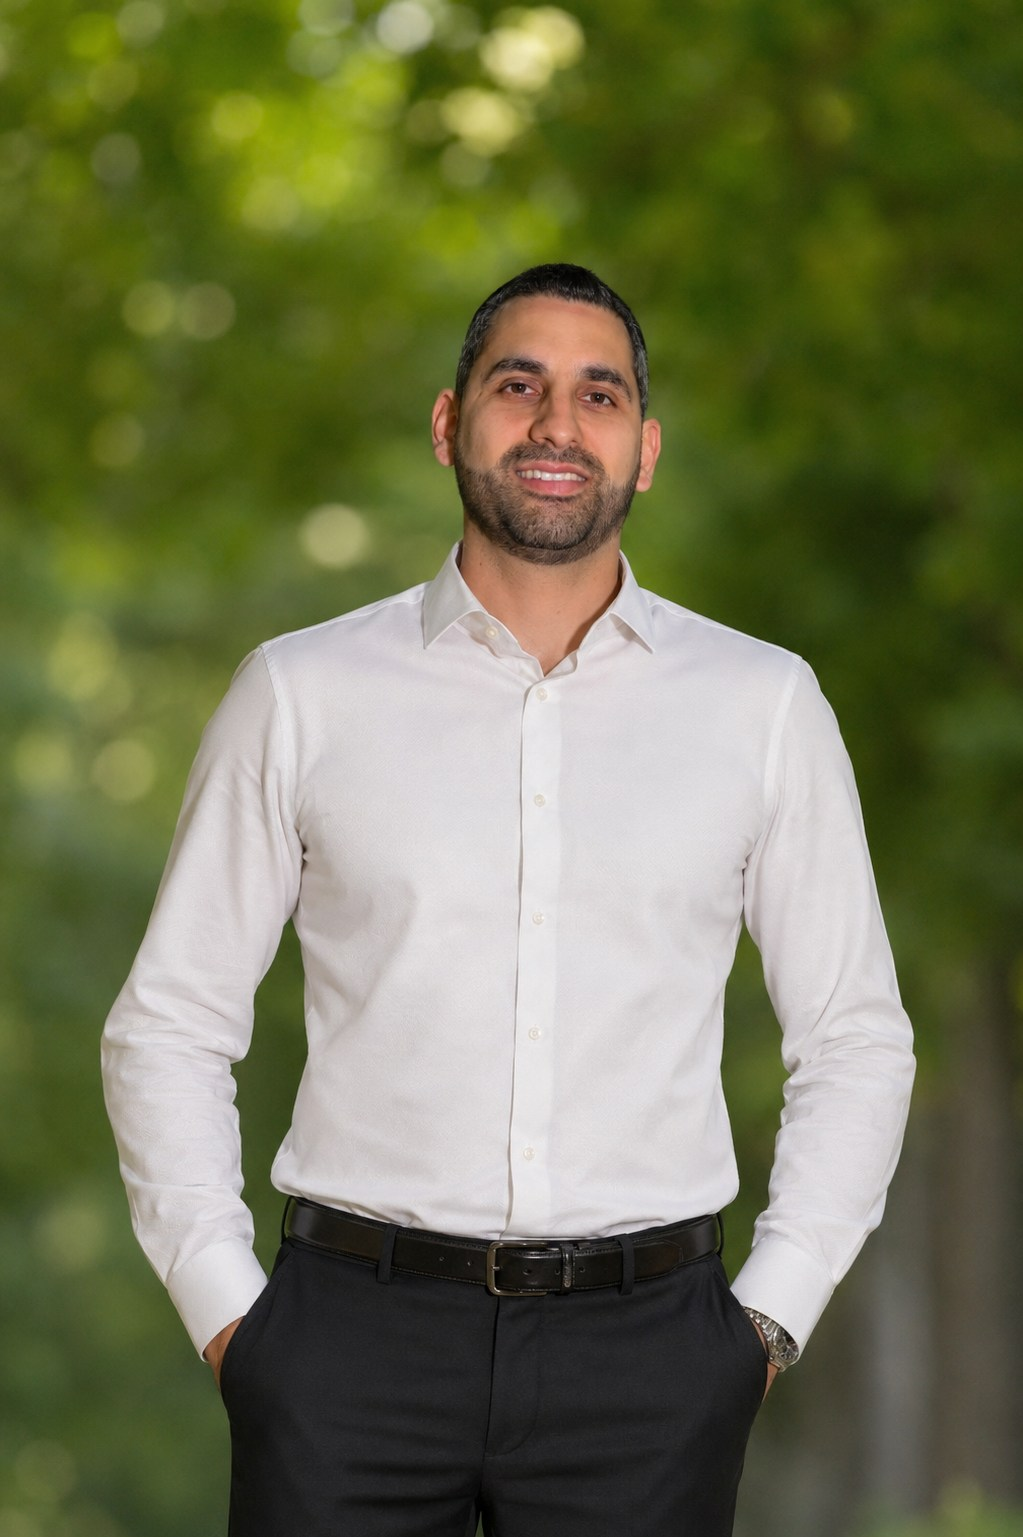
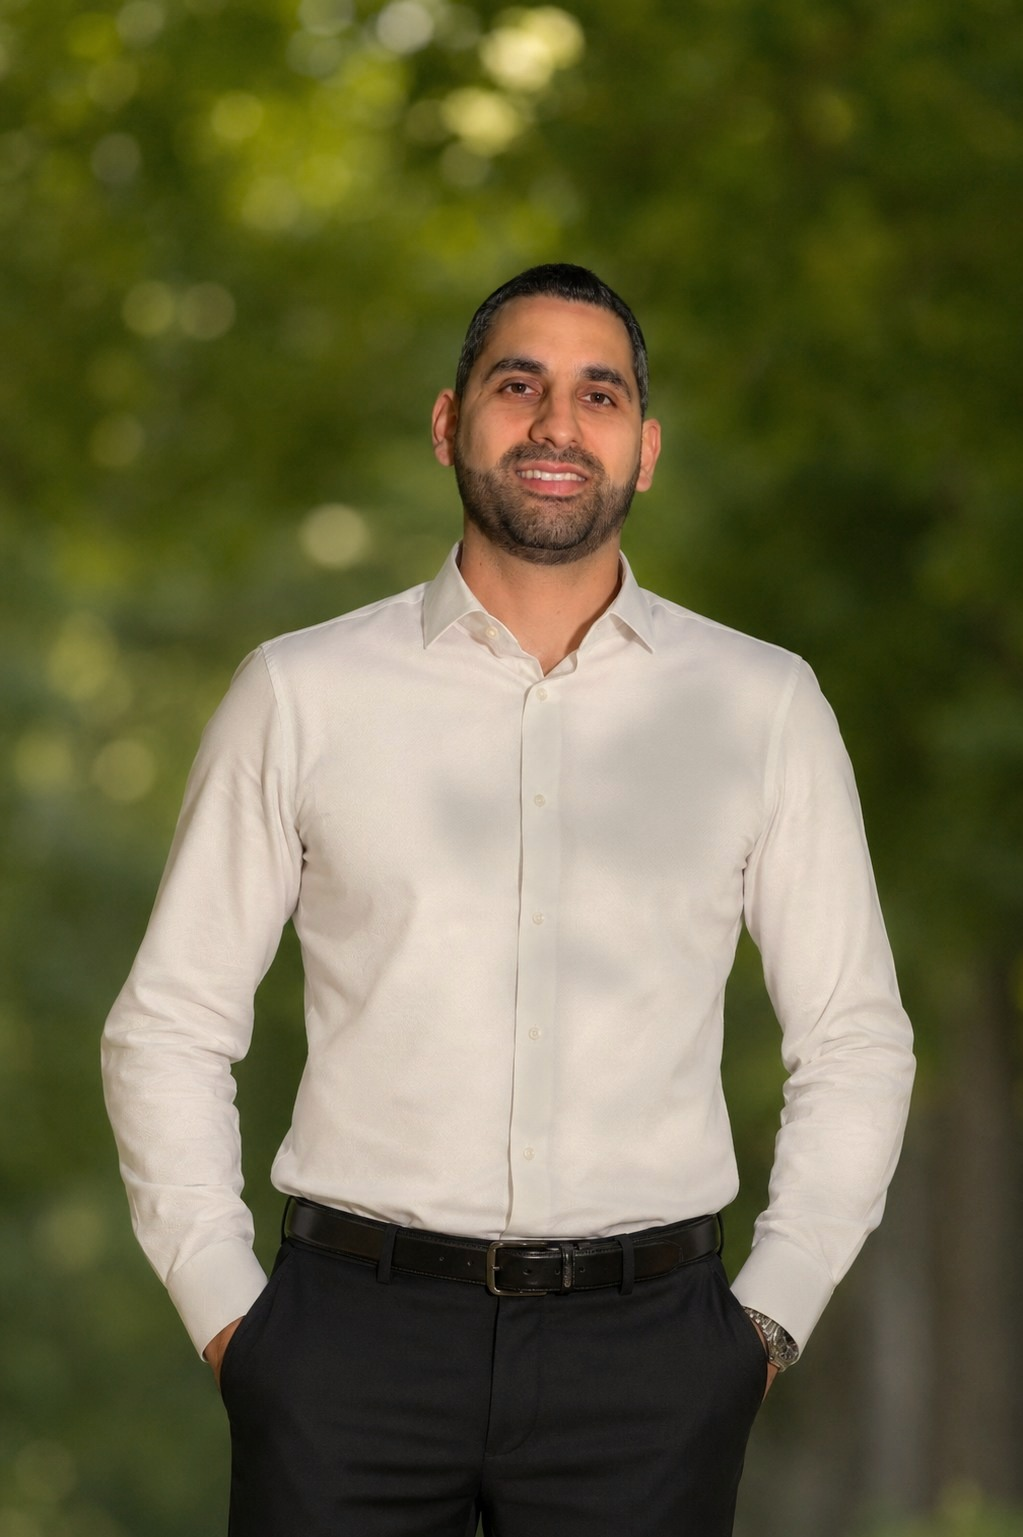
Add 'בית' to nav+drawer+footer all pages; process photo colors

diff --git a/about/index.html b/about/index.html
@@ -69,7 +69,6 @@
   display: block;
   background: var(--paper-2);
   color: transparent;
-  filter: saturate(0.78) sepia(0.12) brightness(0.92);
 }
 .about-photo-caption {
   margin-top: .85rem;
@@ -177,6 +176,7 @@
     <img src="/GoFlow_full_logo_black_transparent_1200px.png" alt="GoFlow">
   </a>
   <ul class="site-nav-links">
+    <li><a href="/">בית</a></li>
     <li><a href="/#services">שירותים</a></li>
     <li><a href="/#process">תהליך</a></li>
     <li><a href="/#quiz">אבחון</a></li>
@@ -189,6 +189,7 @@
 </nav>
 
 <div class="drawer" id="drawer">
+  <a href="/" onclick="closeDrawer()">בית</a>
   <a href="/#services" onclick="closeDrawer()">שירותים</a>
   <a href="/#process" onclick="closeDrawer()">תהליך עבודה</a>
   <a href="/#quiz" onclick="closeDrawer()">אבחון חינם</a>
@@ -316,7 +317,7 @@
 <footer class="site-footer">
   <a href="/"><img src="/GoFlow_full_logo_black_transparent_1200px.png" alt="GoFlow"></a>
   <div class="foot-links">
-    <a href="/">דף הבית</a>
+    <a href="/">בית</a>
     <a href="/about/">אודות</a>
     <a href="/blog/">בלוג</a>
     <a href="/#contact">צור קשר</a>

diff --git a/blog/index.html b/blog/index.html
@@ -42,6 +42,7 @@
     <img src="/GoFlow_full_logo_black_transparent_1200px.png" alt="GoFlow">
   </a>
   <ul class="site-nav-links">
+    <li><a href="/">בית</a></li>
     <li><a href="/#services">שירותים</a></li>
     <li><a href="/#process">תהליך</a></li>
     <li><a href="/#quiz">אבחון</a></li>
@@ -53,6 +54,7 @@
   <button class="hbg" id="hbg" onclick="toggleDrawer()"><span></span><span></span><span></span></button>
 </nav>
 <div class="drawer" id="drawer">
+  <a href="/" onclick="closeDrawer()">בית</a>
   <a href="/#services" onclick="closeDrawer()">שירותים</a>
   <a href="/#process" onclick="closeDrawer()">תהליך עבודה</a>
   <a href="/#quiz" onclick="closeDrawer()">אבחון חינם</a>
@@ -85,7 +87,6 @@ function closeDrawer(){
 </div>
 
 <div class="filter-bar">
-  <a href="/" style="display:inline-flex;align-items:center;gap:.35rem;padding:.4rem 1rem;border:1px solid var(--border);border-radius:2rem;font-family:var(--fb);font-size:.78rem;letter-spacing:.07em;color:var(--muted);text-decoration:none;transition:all .2s;white-space:nowrap" onmouseover="this.style.borderColor='var(--gold)';this.style.color='var(--gold)'" onmouseout="this.style.borderColor='var(--border)';this.style.color='var(--muted)'">← בית</a>
   <button class="filter-btn active" onclick="filter('all')">הכל</button>
   <button class="filter-btn" onclick="filter('ייעוץ תהליכי')">ייעוץ תהליכי</button>
   <button class="filter-btn" onclick="filter('CRM')">CRM</button>
@@ -189,7 +190,7 @@ function filter(cat){
 <footer class="site-footer">
   <a href="/"><img src="/GoFlow_full_logo_black_transparent_1200px.png" alt="GoFlow"></a>
   <div class="foot-links">
-    <a href="/">דף הבית</a>
+    <a href="/">בית</a>
     <a href="/about/">אודות</a>
     <a href="/blog/">בלוג</a>
     <a href="/#contact">צור קשר</a>

diff --git a/blog/5-signs-you-need-process-consulting/index.html b/blog/5-signs-you-need-process-consulting/index.html
@@ -36,6 +36,7 @@
     <img src="/GoFlow_full_logo_black_transparent_1200px.png" alt="GoFlow">
   </a>
   <ul class="site-nav-links">
+    <li><a href="/">בית</a></li>
     <li><a href="/#services">שירותים</a></li>
     <li><a href="/#process">תהליך</a></li>
     <li><a href="/#quiz">אבחון</a></li>
@@ -47,6 +48,7 @@
   <button class="hbg" id="hbg" onclick="toggleDrawer()"><span></span><span></span><span></span></button>
 </nav>
 <div class="drawer" id="drawer">
+  <a href="/" onclick="closeDrawer()">בית</a>
   <a href="/#services" onclick="closeDrawer()">שירותים</a>
   <a href="/#process" onclick="closeDrawer()">תהליך עבודה</a>
   <a href="/#quiz" onclick="closeDrawer()">אבחון חינם</a>
@@ -73,7 +75,7 @@
 </div></article></main><footer class="site-footer">
   <a href="/"><img src="/GoFlow_full_logo_black_transparent_1200px.png" alt="GoFlow"></a>
   <div class="foot-links">
-    <a href="/">דף הבית</a>
+    <a href="/">בית</a>
     <a href="/about/">אודות</a>
     <a href="/blog/">בלוג</a>
     <a href="/#contact">צור קשר</a>

diff --git a/blog/automation-for-business/index.html b/blog/automation-for-business/index.html
@@ -36,6 +36,7 @@
     <img src="/GoFlow_full_logo_black_transparent_1200px.png" alt="GoFlow">
   </a>
   <ul class="site-nav-links">
+    <li><a href="/">בית</a></li>
     <li><a href="/#services">שירותים</a></li>
     <li><a href="/#process">תהליך</a></li>
     <li><a href="/#quiz">אבחון</a></li>
@@ -47,6 +48,7 @@
   <button class="hbg" id="hbg" onclick="toggleDrawer()"><span></span><span></span><span></span></button>
 </nav>
 <div class="drawer" id="drawer">
+  <a href="/" onclick="closeDrawer()">בית</a>
   <a href="/#services" onclick="closeDrawer()">שירותים</a>
   <a href="/#process" onclick="closeDrawer()">תהליך עבודה</a>
   <a href="/#quiz" onclick="closeDrawer()">אבחון חינם</a>
@@ -74,7 +76,7 @@
 </div></article></main><footer class="site-footer">
   <a href="/"><img src="/GoFlow_full_logo_black_transparent_1200px.png" alt="GoFlow"></a>
   <div class="foot-links">
-    <a href="/">דף הבית</a>
+    <a href="/">בית</a>
     <a href="/about/">אודות</a>
     <a href="/blog/">בלוג</a>
     <a href="/#contact">צור קשר</a>

diff --git a/blog/ceo-bottleneck/index.html b/blog/ceo-bottleneck/index.html
@@ -36,6 +36,7 @@
     <img src="/GoFlow_full_logo_black_transparent_1200px.png" alt="GoFlow">
   </a>
   <ul class="site-nav-links">
+    <li><a href="/">בית</a></li>
     <li><a href="/#services">שירותים</a></li>
     <li><a href="/#process">תהליך</a></li>
     <li><a href="/#quiz">אבחון</a></li>
@@ -47,6 +48,7 @@
   <button class="hbg" id="hbg" onclick="toggleDrawer()"><span></span><span></span><span></span></button>
 </nav>
 <div class="drawer" id="drawer">
+  <a href="/" onclick="closeDrawer()">בית</a>
   <a href="/#services" onclick="closeDrawer()">שירותים</a>
   <a href="/#process" onclick="closeDrawer()">תהליך עבודה</a>
   <a href="/#quiz" onclick="closeDrawer()">אבחון חינם</a>
@@ -69,7 +71,7 @@
 </div></article></main><footer class="site-footer">
   <a href="/"><img src="/GoFlow_full_logo_black_transparent_1200px.png" alt="GoFlow"></a>
   <div class="foot-links">
-    <a href="/">דף הבית</a>
+    <a href="/">בית</a>
     <a href="/about/">אודות</a>
     <a href="/blog/">בלוג</a>
     <a href="/#contact">צור קשר</a>

diff --git a/blog/crm-for-business-2026/index.html b/blog/crm-for-business-2026/index.html
@@ -36,6 +36,7 @@
     <img src="/GoFlow_full_logo_black_transparent_1200px.png" alt="GoFlow">
   </a>
   <ul class="site-nav-links">
+    <li><a href="/">בית</a></li>
     <li><a href="/#services">שירותים</a></li>
     <li><a href="/#process">תהליך</a></li>
     <li><a href="/#quiz">אבחון</a></li>
@@ -47,6 +48,7 @@
   <button class="hbg" id="hbg" onclick="toggleDrawer()"><span></span><span></span><span></span></button>
 </nav>
 <div class="drawer" id="drawer">
+  <a href="/" onclick="closeDrawer()">בית</a>
   <a href="/#services" onclick="closeDrawer()">שירותים</a>
   <a href="/#process" onclick="closeDrawer()">תהליך עבודה</a>
   <a href="/#quiz" onclick="closeDrawer()">אבחון חינם</a>
@@ -80,7 +82,7 @@
 </div></article></main><footer class="site-footer">
   <a href="/"><img src="/GoFlow_full_logo_black_transparent_1200px.png" alt="GoFlow"></a>
   <div class="foot-links">
-    <a href="/">דף הבית</a>
+    <a href="/">בית</a>
     <a href="/about/">אודות</a>
     <a href="/blog/">בלוג</a>
     <a href="/#contact">צור קשר</a>

diff --git a/blog/crm-solves-nothing/index.html b/blog/crm-solves-nothing/index.html
@@ -36,6 +36,7 @@
     <img src="/GoFlow_full_logo_black_transparent_1200px.png" alt="GoFlow">
   </a>
   <ul class="site-nav-links">
+    <li><a href="/">בית</a></li>
     <li><a href="/#services">שירותים</a></li>
     <li><a href="/#process">תהליך</a></li>
     <li><a href="/#quiz">אבחון</a></li>
@@ -47,6 +48,7 @@
   <button class="hbg" id="hbg" onclick="toggleDrawer()"><span></span><span></span><span></span></button>
 </nav>
 <div class="drawer" id="drawer">
+  <a href="/" onclick="closeDrawer()">בית</a>
   <a href="/#services" onclick="closeDrawer()">שירותים</a>
   <a href="/#process" onclick="closeDrawer()">תהליך עבודה</a>
   <a href="/#quiz" onclick="closeDrawer()">אבחון חינם</a>
@@ -69,7 +71,7 @@
 </div></article></main><footer class="site-footer">
   <a href="/"><img src="/GoFlow_full_logo_black_transparent_1200px.png" alt="GoFlow"></a>
   <div class="foot-links">
-    <a href="/">דף הבית</a>
+    <a href="/">בית</a>
     <a href="/about/">אודות</a>
     <a href="/blog/">בלוג</a>
     <a href="/#contact">צור קשר</a>

diff --git a/blog/people-system-or-process/index.html b/blog/people-system-or-process/index.html
@@ -36,6 +36,7 @@
     <img src="/GoFlow_full_logo_black_transparent_1200px.png" alt="GoFlow">
   </a>
   <ul class="site-nav-links">
+    <li><a href="/">בית</a></li>
     <li><a href="/#services">שירותים</a></li>
     <li><a href="/#process">תהליך</a></li>
     <li><a href="/#quiz">אבחון</a></li>
@@ -47,6 +48,7 @@
   <button class="hbg" id="hbg" onclick="toggleDrawer()"><span></span><span></span><span></span></button>
 </nav>
 <div class="drawer" id="drawer">
+  <a href="/" onclick="closeDrawer()">בית</a>
   <a href="/#services" onclick="closeDrawer()">שירותים</a>
   <a href="/#process" onclick="closeDrawer()">תהליך עבודה</a>
   <a href="/#quiz" onclick="closeDrawer()">אבחון חינם</a>
@@ -72,7 +74,7 @@
 </div></article></main><footer class="site-footer">
   <a href="/"><img src="/GoFlow_full_logo_black_transparent_1200px.png" alt="GoFlow"></a>
   <div class="foot-links">
-    <a href="/">דף הבית</a>
+    <a href="/">בית</a>
     <a href="/about/">אודות</a>
     <a href="/blog/">בלוג</a>
     <a href="/#contact">צור קשר</a>

diff --git a/blog/work-procedures-guide/index.html b/blog/work-procedures-guide/index.html
@@ -36,6 +36,7 @@
     <img src="/GoFlow_full_logo_black_transparent_1200px.png" alt="GoFlow">
   </a>
   <ul class="site-nav-links">
+    <li><a href="/">בית</a></li>
     <li><a href="/#services">שירותים</a></li>
     <li><a href="/#process">תהליך</a></li>
     <li><a href="/#quiz">אבחון</a></li>
@@ -47,6 +48,7 @@
   <button class="hbg" id="hbg" onclick="toggleDrawer()"><span></span><span></span><span></span></button>
 </nav>
 <div class="drawer" id="drawer">
+  <a href="/" onclick="closeDrawer()">בית</a>
   <a href="/#services" onclick="closeDrawer()">שירותים</a>
   <a href="/#process" onclick="closeDrawer()">תהליך עבודה</a>
   <a href="/#quiz" onclick="closeDrawer()">אבחון חינם</a>
@@ -72,7 +74,7 @@
 </div></article></main><footer class="site-footer">
   <a href="/"><img src="/GoFlow_full_logo_black_transparent_1200px.png" alt="GoFlow"></a>
   <div class="foot-links">
-    <a href="/">דף הבית</a>
+    <a href="/">בית</a>
     <a href="/about/">אודות</a>
     <a href="/blog/">בלוג</a>
     <a href="/#contact">צור קשר</a>

diff --git a/index.html b/index.html
@@ -912,7 +912,7 @@ footer{
     <div style="display:grid;grid-template-columns:1fr 1.7fr;gap:clamp(2.5rem,5vw,5rem);align-items:center" class="fi">
       <div style="position:relative">
         <img src="/avi-amar.jpg" alt="אבי עמר — מייסד GoFlow"
-          style="width:100%;aspect-ratio:3/4;object-fit:cover;object-position:center top;border-radius:3px;display:block;background:var(--paper-2);color:transparent;filter:saturate(0.78) sepia(0.12) brightness(0.92)">
+          style="width:100%;aspect-ratio:3/4;object-fit:cover;object-position:center top;border-radius:3px;display:block;background:var(--paper-2);color:transparent">
         <div style="position:absolute;bottom:1.5rem;right:1.5rem;background:var(--ink);color:var(--paper);padding:.5rem 1rem;font-size:.72rem;letter-spacing:.12em;text-transform:uppercase;border-radius:2px">אבי עמר · מייסד</div>
       </div>
       <div>